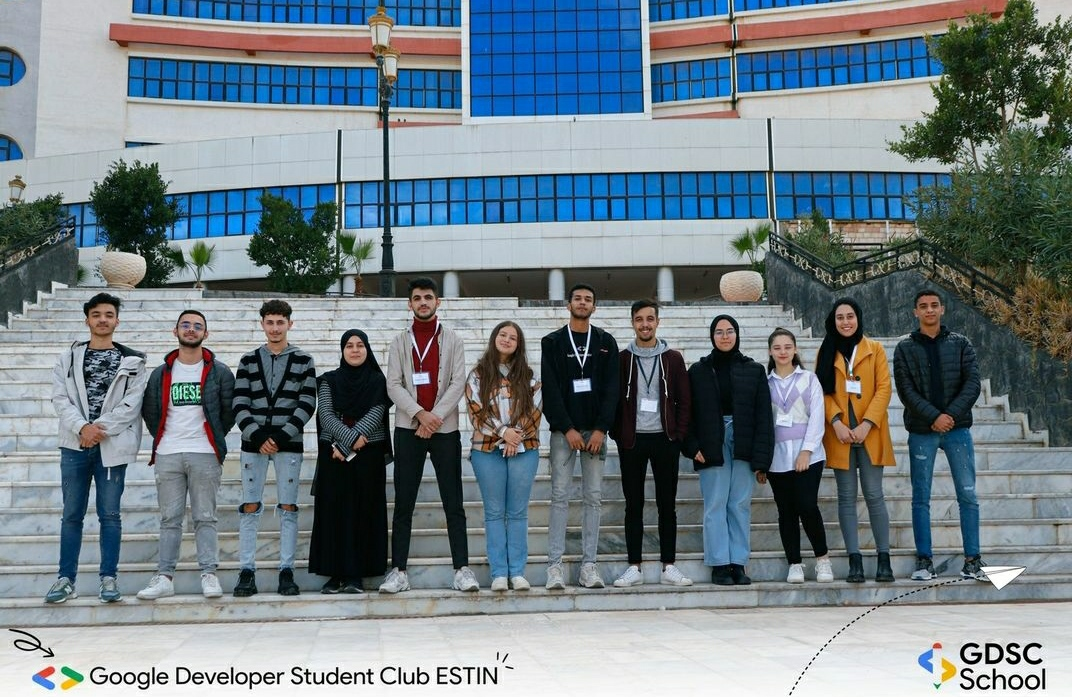
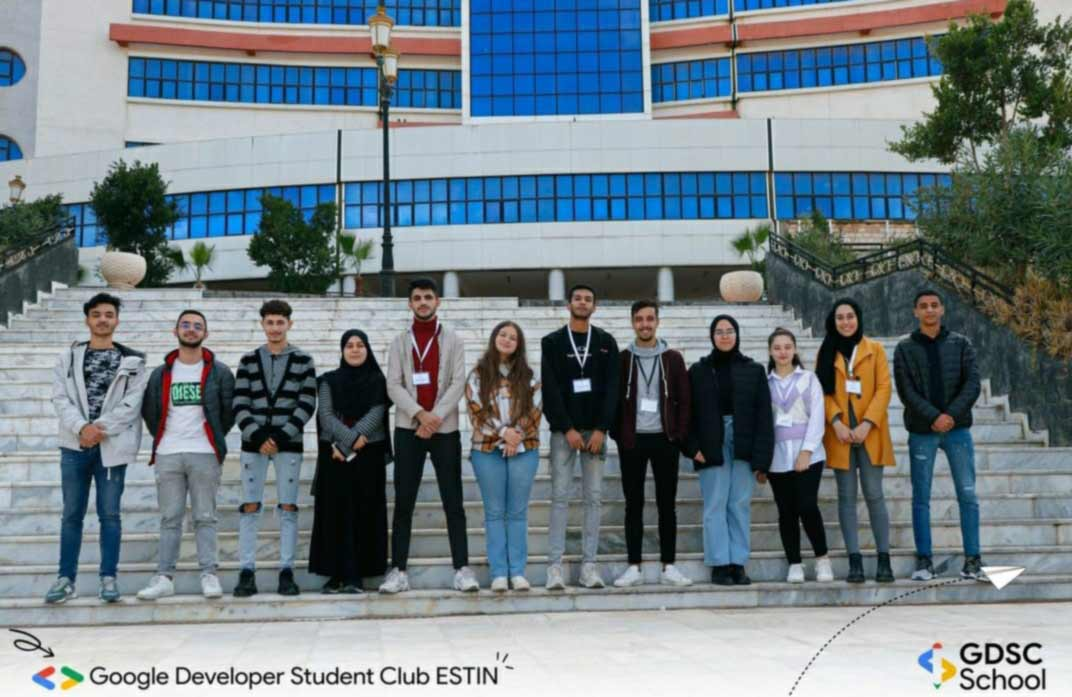
comperss assets

diff --git a/index.html b/index.html
@@ -430,7 +430,7 @@ https://templatemo.com/tm-578-first-portfolio
                                 </div>
 
                                 <a href="images/projects/nikhil-KO4io-eCAXA-unsplash.jpg" class="popup-image">
-                                    <img src="images/mine/mok.png" class="projects-image img-fluid" alt="">
+                                    <img src="images/mine/mok.jpg" class="projects-image img-fluid" alt="">
                                 </a>
                             </div>
                         </div>
@@ -450,7 +450,7 @@ https://templatemo.com/tm-578-first-portfolio
                                  </div>
 
                                 <a href="images/projects/the-5th-IQYR7N67dhM-unsplash.jpg" class="popup-image">
-                                    <img src="images/mine/1mb.png" class="projects-image img-fluid" alt="">
+                                    <img src="images/mine/1mb.jpg" class="projects-image img-fluid" alt="">
                                 </a>
                             </div>
                         </div>
@@ -470,7 +470,7 @@ https://templatemo.com/tm-578-first-portfolio
                                  </div>
 
                                 <a href="images/projects/true-agency-9Bjog5FZ-oc-unsplash.jpg" class="popup-image">
-                                    <img src="images/mine/sc.png" class="projects-image img-fluid" alt="">
+                                    <img src="images/mine/sc.jpg" class="projects-image img-fluid" alt="">
                                 </a>
                             </div>
                         </div>
@@ -589,7 +589,7 @@ https://templatemo.com/tm-578-first-portfolio
                     <div class="col-lg-12 col-12">
                         <div class="copyright-text-wrap">
                             <p class="mb-0">
-                                <span class="copyright-text">Copyright © 2036 <a href="#">First Portfolio</a> Company. All rights reserved.</span>
+                                <span class="copyright-text">Copyright © 2036  All rights reserved.</span>
                                 Design: 
                                 <a rel="sponsored" href="#" target="_blank">Amine Ladrani</a>
                             </p>
